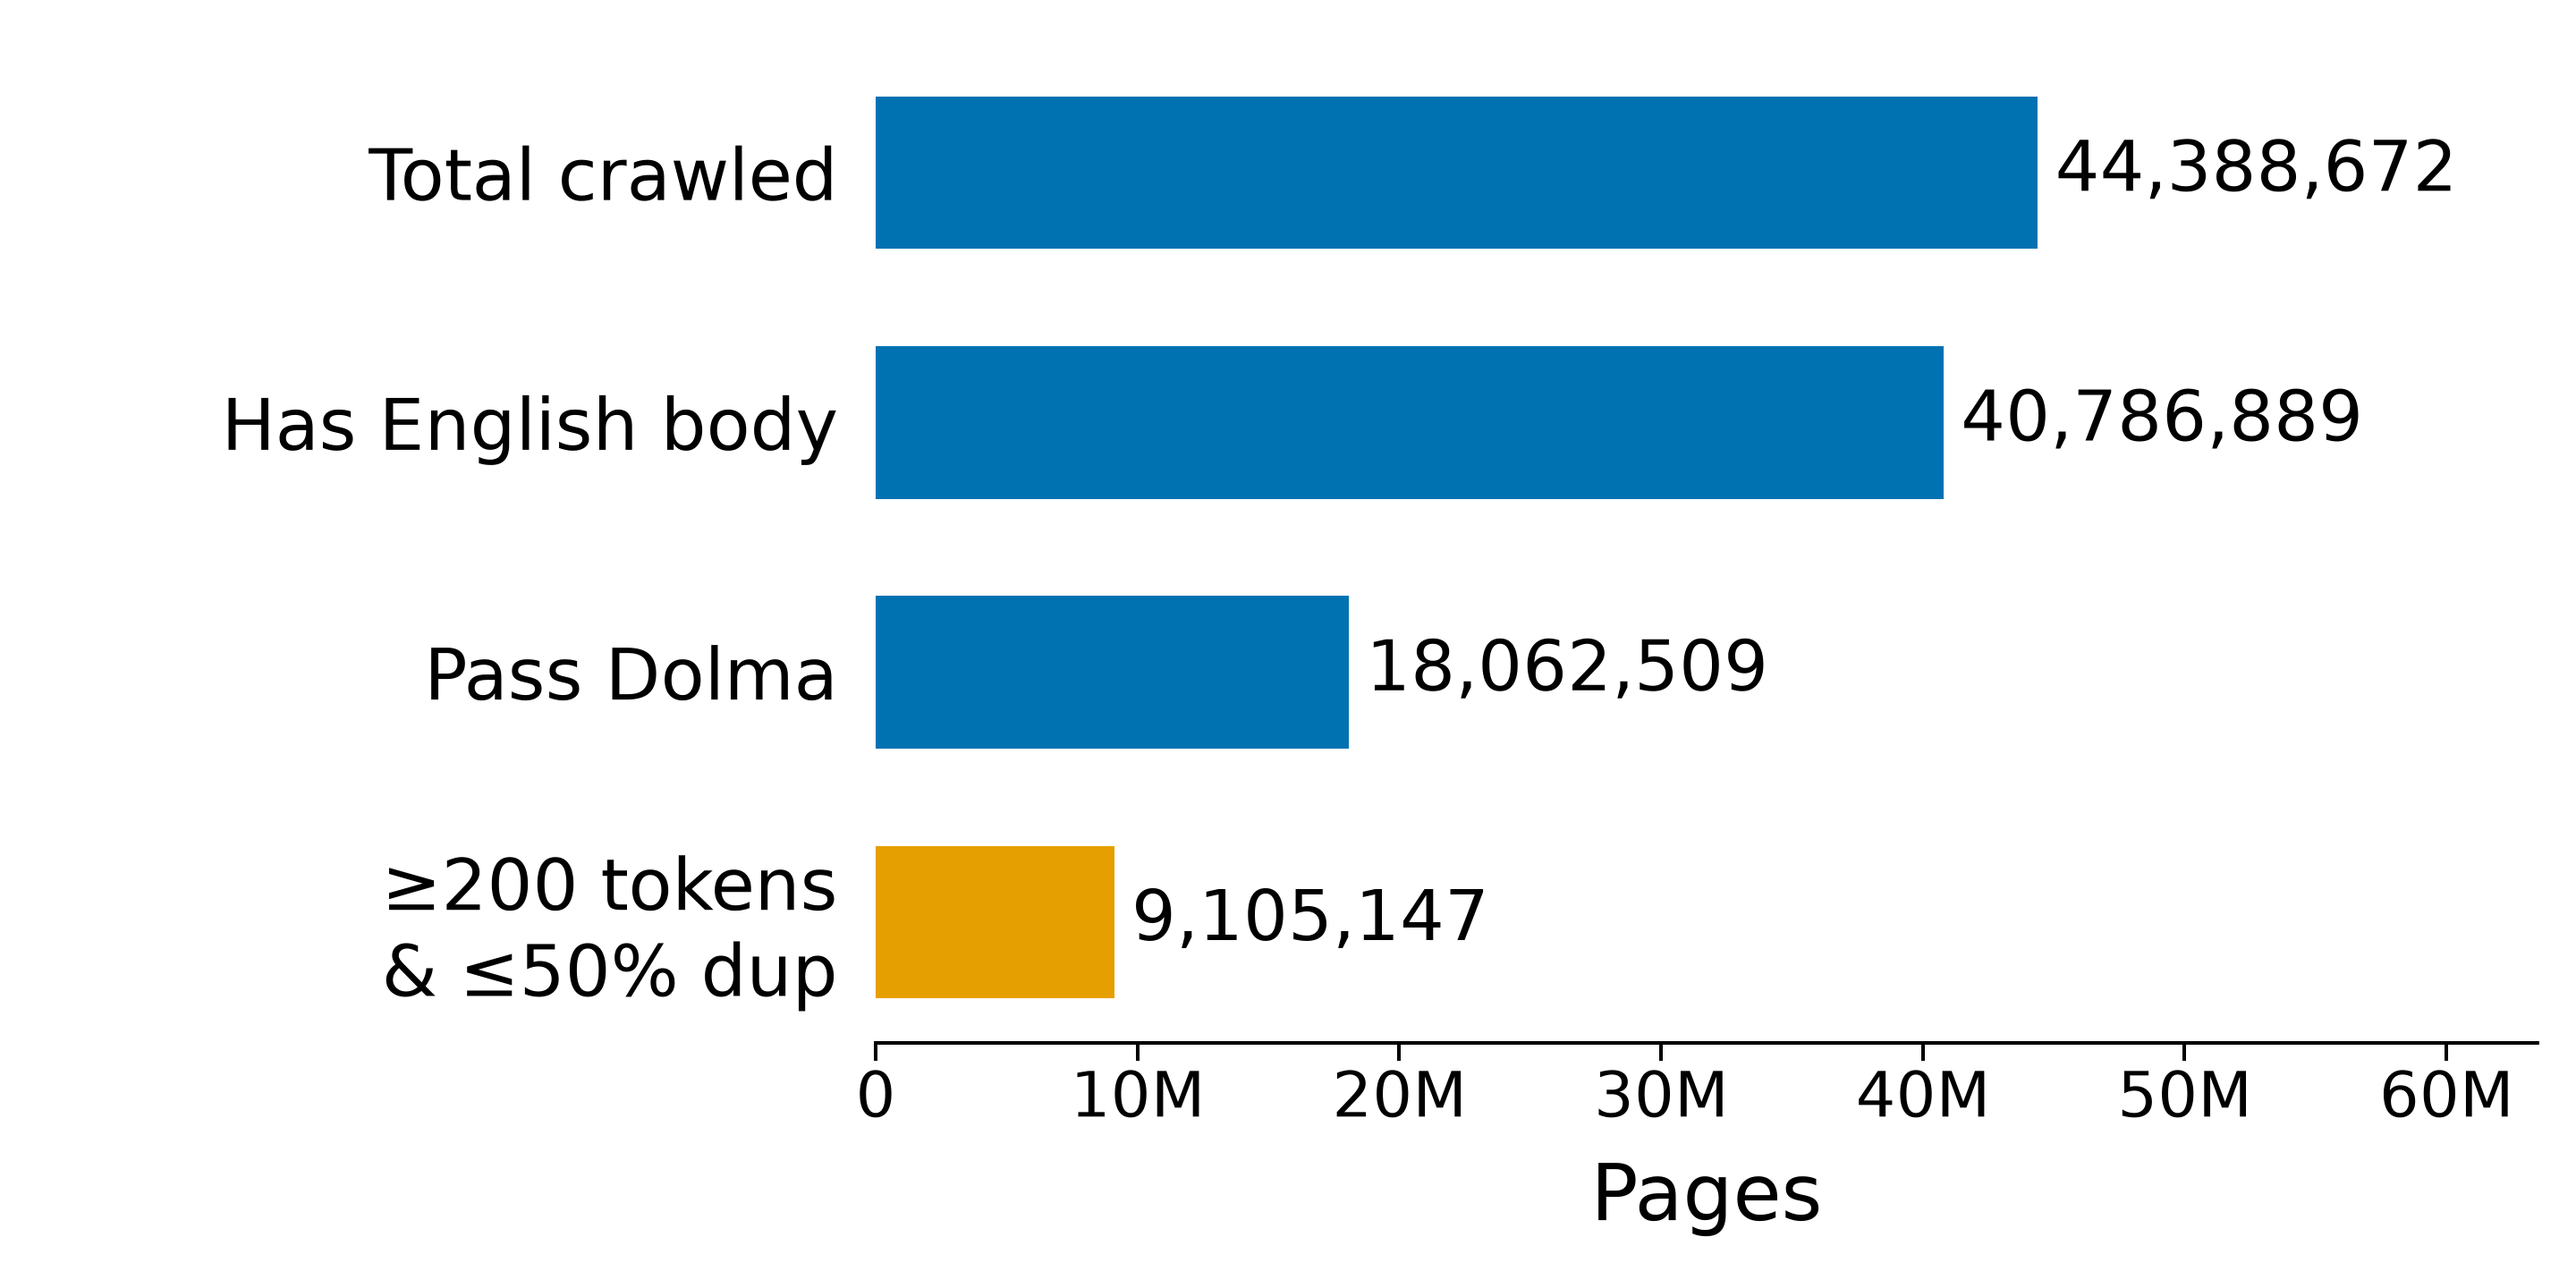
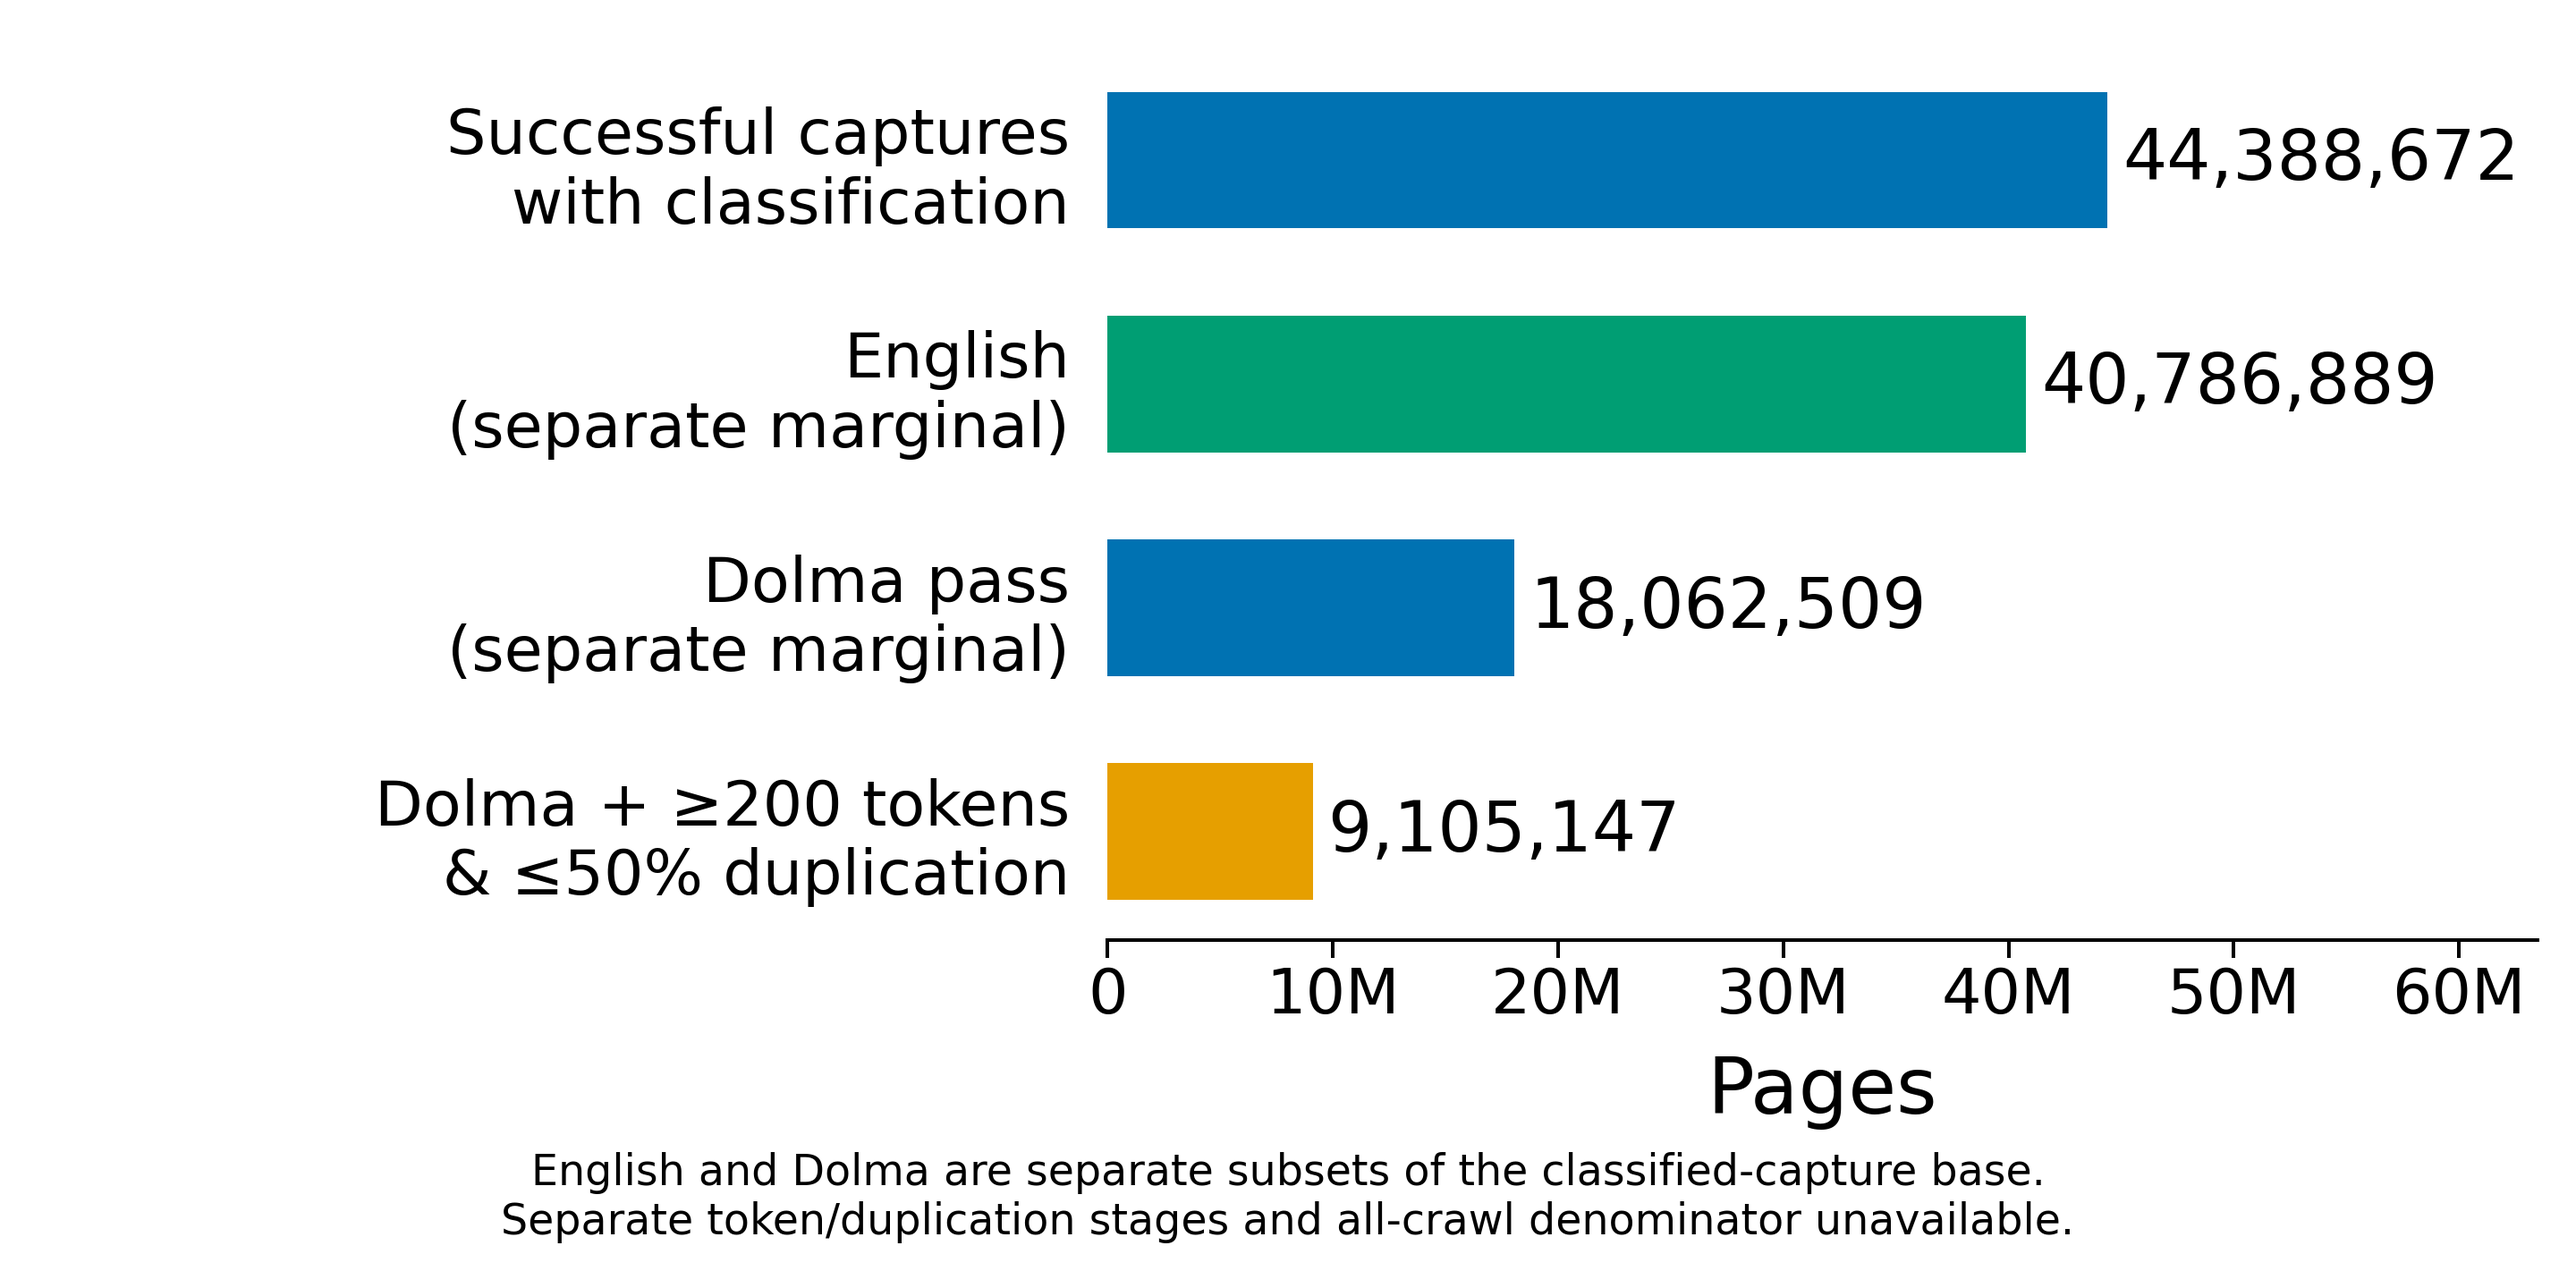
fix: clarify Common Crawl page filtering cohort

Changed region(s): [[0.0625, 0.0625, 0.9688, 0.9688], [0.8125, 0.7188, 1.0, 0.875], [0.4062, 0.8125, 0.4688, 0.875]]

diff --git a/scripts/plot_filter_breakdown.py b/scripts/plot_filter_breakdown.py
@@ -3,6 +3,8 @@
 Bing counts are queried from the SHA-256-verified frozen Search snapshot.
 Common Crawl's pre-filter cache has one combined token-length/duplication count,
 not separate counts; it is a different cohort from the paper's scored 94,908 sites.
+Its base includes latest successful captures with a classification, and English
+and Dolma counts are separate marginals rather than successive filtering stages.
 """
 
 from __future__ import annotations
@@ -24,16 +26,18 @@ CC_SOURCE_PATH = Path("/ssd1/sichangheagent/source1840-archive-artifacts/inputs/
[1 lines of base64/hex data omitted]
 PAGE_LABELS = ("Total crawled", "Has English body", "≥200 tokens", "Pass Dolma", "≤50% dup")
 SITE_LABELS = ("Search-result sites", "Has saved pages", "≥1 eligible page", "≥15 eligible pages")
-CC_PAGE_LABELS = ("Total crawled", "Has English body", "Pass Dolma", "≥200 tokens\n& ≤50% dup")
+CC_PAGE_LABELS = ("Successful captures\nwith classification", "English\n(separate marginal)", "Dolma pass\n(separate marginal)", "Dolma + ≥200 tokens\n& ≤50% duplication")
 CC_SITE_LABELS = ("Total crawled", "Has English body", "Pass Dolma", "≥1 eligible page", "≥15 eligible pages")
 
 
-def draw_bars(labels: tuple[str, ...], counts: tuple[int, ...], units: str, output: Path) -> None:
+def draw_bars(labels: tuple[str, ...], counts: tuple[int, ...], units: str, output: Path, note: str | None = None) -> None:
     figure, axis = plt.subplots(figsize=(16, 8), dpi=180)
     positions = list(range(len(labels)))
     colors = ["#0072B2"] * (len(labels) - 1) + ["#E69F00"]
+    if note is not None:
+        colors[1] = "#009E73"
     axis.barh(positions, counts, height=0.61, color=colors)
-    axis.set_yticks(positions, labels=labels, fontsize=32)
+    axis.set_yticks(positions, labels=labels, fontsize=28 if note else 32)
     axis.invert_yaxis()
     axis.set_xlim(0, max(counts) * (1.43 if max(counts) > 10_000_000 else 1.28))
     axis.set_xlabel(units, fontsize=35, labelpad=13)
@@ -49,9 +53,18 @@ def draw_bars(labels: tuple[str, ...], counts: tuple[int, ...], units: str, outp
         axis.text(count + max(counts) * 0.015, position, f"{count:,}", va="center", fontsize=31)
     axis.spines[["top", "right", "left"]].set_visible(False)
     axis.spines["bottom"].set_linewidth(1.6)
-    figure.subplots_adjust(left=0.34, right=0.985, top=0.96, bottom=0.19)
+    figure.subplots_adjust(left=0.43 if note else 0.34, right=0.985, top=0.96, bottom=0.27 if note else 0.19)
+    if note is not None:
+        figure.text(0.5, 0.035, note, ha="center", va="bottom", fontsize=19)
     figure.savefig(output, dpi=180)
     plt.close(figure)
+
+
+def require_counts(row: tuple[int, ...] | None) -> tuple[int, ...]:
+    """Reject absent aggregate results before using their counts."""
+    if row is None:
+        raise SystemExit("Missing filtering counts", locals())
+    return row
 
 
 # 🧑 "Convert the filtering breakdown to bar plots. Y labels should be “Total crawled” “Has English text” “≥200 tokens” “Pass Dolma” “≤50% dup” Do page-level breakdown, right? Then have a final breakdown of how many sites we are left with"
@@ -60,6 +73,7 @@ def main() -> None:
     parser.add_argument("--database", type=Path, default=SOURCE_PATH)
     parser.add_argument("--cc-database", type=Path, default=CC_SOURCE_PATH)
     parser.add_argument("--output-dir", type=Path, default=Path("public/paper"))
+    parser.add_argument("--cc-pages-only", action="store_true")
     args = parser.parse_args()
     with args.database.open("rb") as database:
         if hashlib.file_digest(database, "sha256").hexdigest() != SOURCE_SHA256:
@@ -68,43 +82,43 @@ def main() -> None:
         if hashlib.file_digest(database, "sha256").hexdigest() != CC_SOURCE_SHA256:
             raise ValueError("Frozen Common Crawl source does not match the audited snapshot")
     with duckdb.connect(str(args.database), read_only=True) as connection:
-        page_counts = connection.execute("""
+        page_counts = require_counts(connection.execute("""
             SELECT count(*),
                 count(*) FILTER (WHERE crawl_ok AND w_browser AND is_english),
                 count(*) FILTER (WHERE crawl_ok AND w_browser AND is_english AND n_tokens >= 200),
                 count(*) FILTER (WHERE crawl_ok AND w_browser AND is_english AND n_tokens >= 200 AND passes_filter),
                 count(*) FILTER (WHERE crawl_ok AND w_browser AND is_english AND n_tokens >= 200 AND passes_filter AND pcent_relative_dupe <= 50)
             FROM df_all_source
-        """).fetchone()
+        """).fetchone())
         site_counts = (
-            connection.execute("SELECT count(DISTINCT subdomain) FROM result_subdomains").fetchone()[0],
-            connection.execute("SELECT count(DISTINCT subdomain) FROM df_all_source").fetchone()[0],
-            connection.execute("""
+            require_counts(connection.execute("SELECT count(DISTINCT subdomain) FROM result_subdomains").fetchone())[0],
+            require_counts(connection.execute("SELECT count(DISTINCT subdomain) FROM df_all_source").fetchone())[0],
+            require_counts(connection.execute("""
                 SELECT count(*) FROM (
                     SELECT subdomain FROM df_all_source
                     WHERE crawl_ok AND w_browser AND is_english AND n_tokens >= 200
                         AND passes_filter AND pcent_relative_dupe <= 50
                     GROUP BY subdomain
                 )
-            """).fetchone()[0],
-            connection.execute("""
+            """).fetchone())[0],
+            require_counts(connection.execute("""
                 SELECT count(*) FROM (
                     SELECT subdomain FROM df_all_source
                     WHERE crawl_ok AND w_browser AND is_english AND n_tokens >= 200
                         AND passes_filter AND pcent_relative_dupe <= 50
                     GROUP BY subdomain HAVING count(*) >= 15
                 )
-            """).fetchone()[0],
+            """).fetchone())[0],
         )
     with duckdb.connect(str(args.cc_database), read_only=True) as connection:
-        cc_counts = connection.execute("""
+        cc_counts = require_counts(connection.execute("""
             SELECT sum(n_total), sum(n_english), sum(n_gopher_all), sum(n_kept),
                 count(*), count(*) FILTER(WHERE n_english > 0),
                 count(*) FILTER(WHERE n_gopher_all > 0),
                 count(*) FILTER(WHERE n_kept > 0),
                 count(*) FILTER(WHERE n_kept >= 15)
             FROM count_df_cache
-        """).fetchone()
+        """).fetchone())
     cc_page_counts = cc_counts[:4]
     cc_site_counts = cc_counts[4:]
     if page_counts[0] != 4_723_161 or page_counts[-1] != 1_322_091 or site_counts != (59_046, 46_949, 38_309, 18_169):
@@ -112,10 +126,12 @@ def main() -> None:
     if cc_page_counts != (44_388_672, 40_786_889, 18_062_509, 9_105_147) or cc_site_counts != (805_268, 766_984, 543_686, 425_834, 100_309):
         raise ValueError("Unexpected Common Crawl cache totals")
     args.output_dir.mkdir(parents=True, exist_ok=True)
-    draw_bars(PAGE_LABELS, page_counts, "Pages", args.output_dir / "filter_pages_bing.png")
-    draw_bars(SITE_LABELS, site_counts, "Sites", args.output_dir / "filter_sites_bing.png")
-    draw_bars(CC_PAGE_LABELS, cc_page_counts, "Pages", args.output_dir / "filter_pages_cc.png")
-    draw_bars(CC_SITE_LABELS, cc_site_counts, "Sites", args.output_dir / "filter_sites_cc.png")
+    if not args.cc_pages_only:
+        draw_bars(PAGE_LABELS, page_counts, "Pages", args.output_dir / "filter_pages_bing.png")
+        draw_bars(SITE_LABELS, site_counts, "Sites", args.output_dir / "filter_sites_bing.png")
+        draw_bars(CC_SITE_LABELS, cc_site_counts, "Sites", args.output_dir / "filter_sites_cc.png")
+    # 🧑 "your slides' CC page-level stats is wrong and needs fixing"
+    draw_bars(CC_PAGE_LABELS, cc_page_counts, "Pages", args.output_dir / "filter_pages_cc.png", note="English and Dolma are separate subsets of the classified-capture base.\nSeparate token/duplication stages and all-crawl denominator unavailable.")
     print("Bing pages:", *page_counts)
     print("Bing sites:", *site_counts)
     print("Common Crawl cache pages:", *cc_page_counts)

diff --git a/slides.md b/slides.md
@@ -330,9 +330,9 @@ Why old sites positive?
 
 ---
 
-Common Crawl: page filtering
+Common Crawl: classified-capture filtering
 
-<img class="filter-plot" src="/paper/filter_pages_cc.png" alt="Common Crawl raw-cache pages: 44,388,672 crawled; 40,786,889 with English body; 18,062,509 passing Dolma; 9,105,147 additionally passing both token-length and duplication filters"/>
+<img class="filter-plot" src="/paper/filter_pages_cc.png" alt="Common Crawl historical cache: 44,388,672 latest successful captures with a classification; separate marginal counts of 40,786,889 English captures and 18,062,509 Dolma-pass captures; 9,105,147 pass Dolma plus both token-length and duplication filters. Separate token and duplication stages and the all-crawl denominator are unavailable"/>
 
 ---
 
